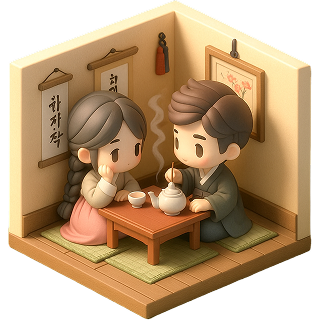
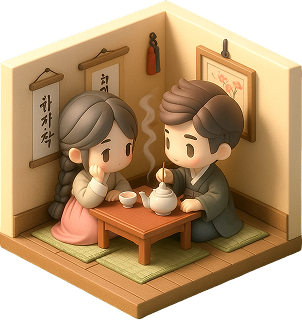
style: 소설 장르 이미지 그리드 레이아웃 최적화
- GenreCard에서 border-radius 제거
- 이미지 원본 비율 유지 (max-width/max-height 사용)
- Flexbox 중앙 정렬로 일관된 표시
- 그리드 갭 제거로 완전한 연결

diff --git a/src/pages/novel/Novel.js b/src/pages/novel/Novel.js
@@ -47,12 +47,16 @@ const GenreCard = styled.div`
   width: 100%;
   aspect-ratio: 1;
   cursor: pointer;
+  overflow: hidden;
+  display: flex;
+  align-items: center;
+  justify-content: center;
 
   img {
-    width: 100%;
-    height: 100%;
-    object-fit: contain;
-    border-radius: 8px;
+    max-width: 100%;
+    max-height: 100%;
+    width: auto;
+    height: auto;
   }
 `;
 
